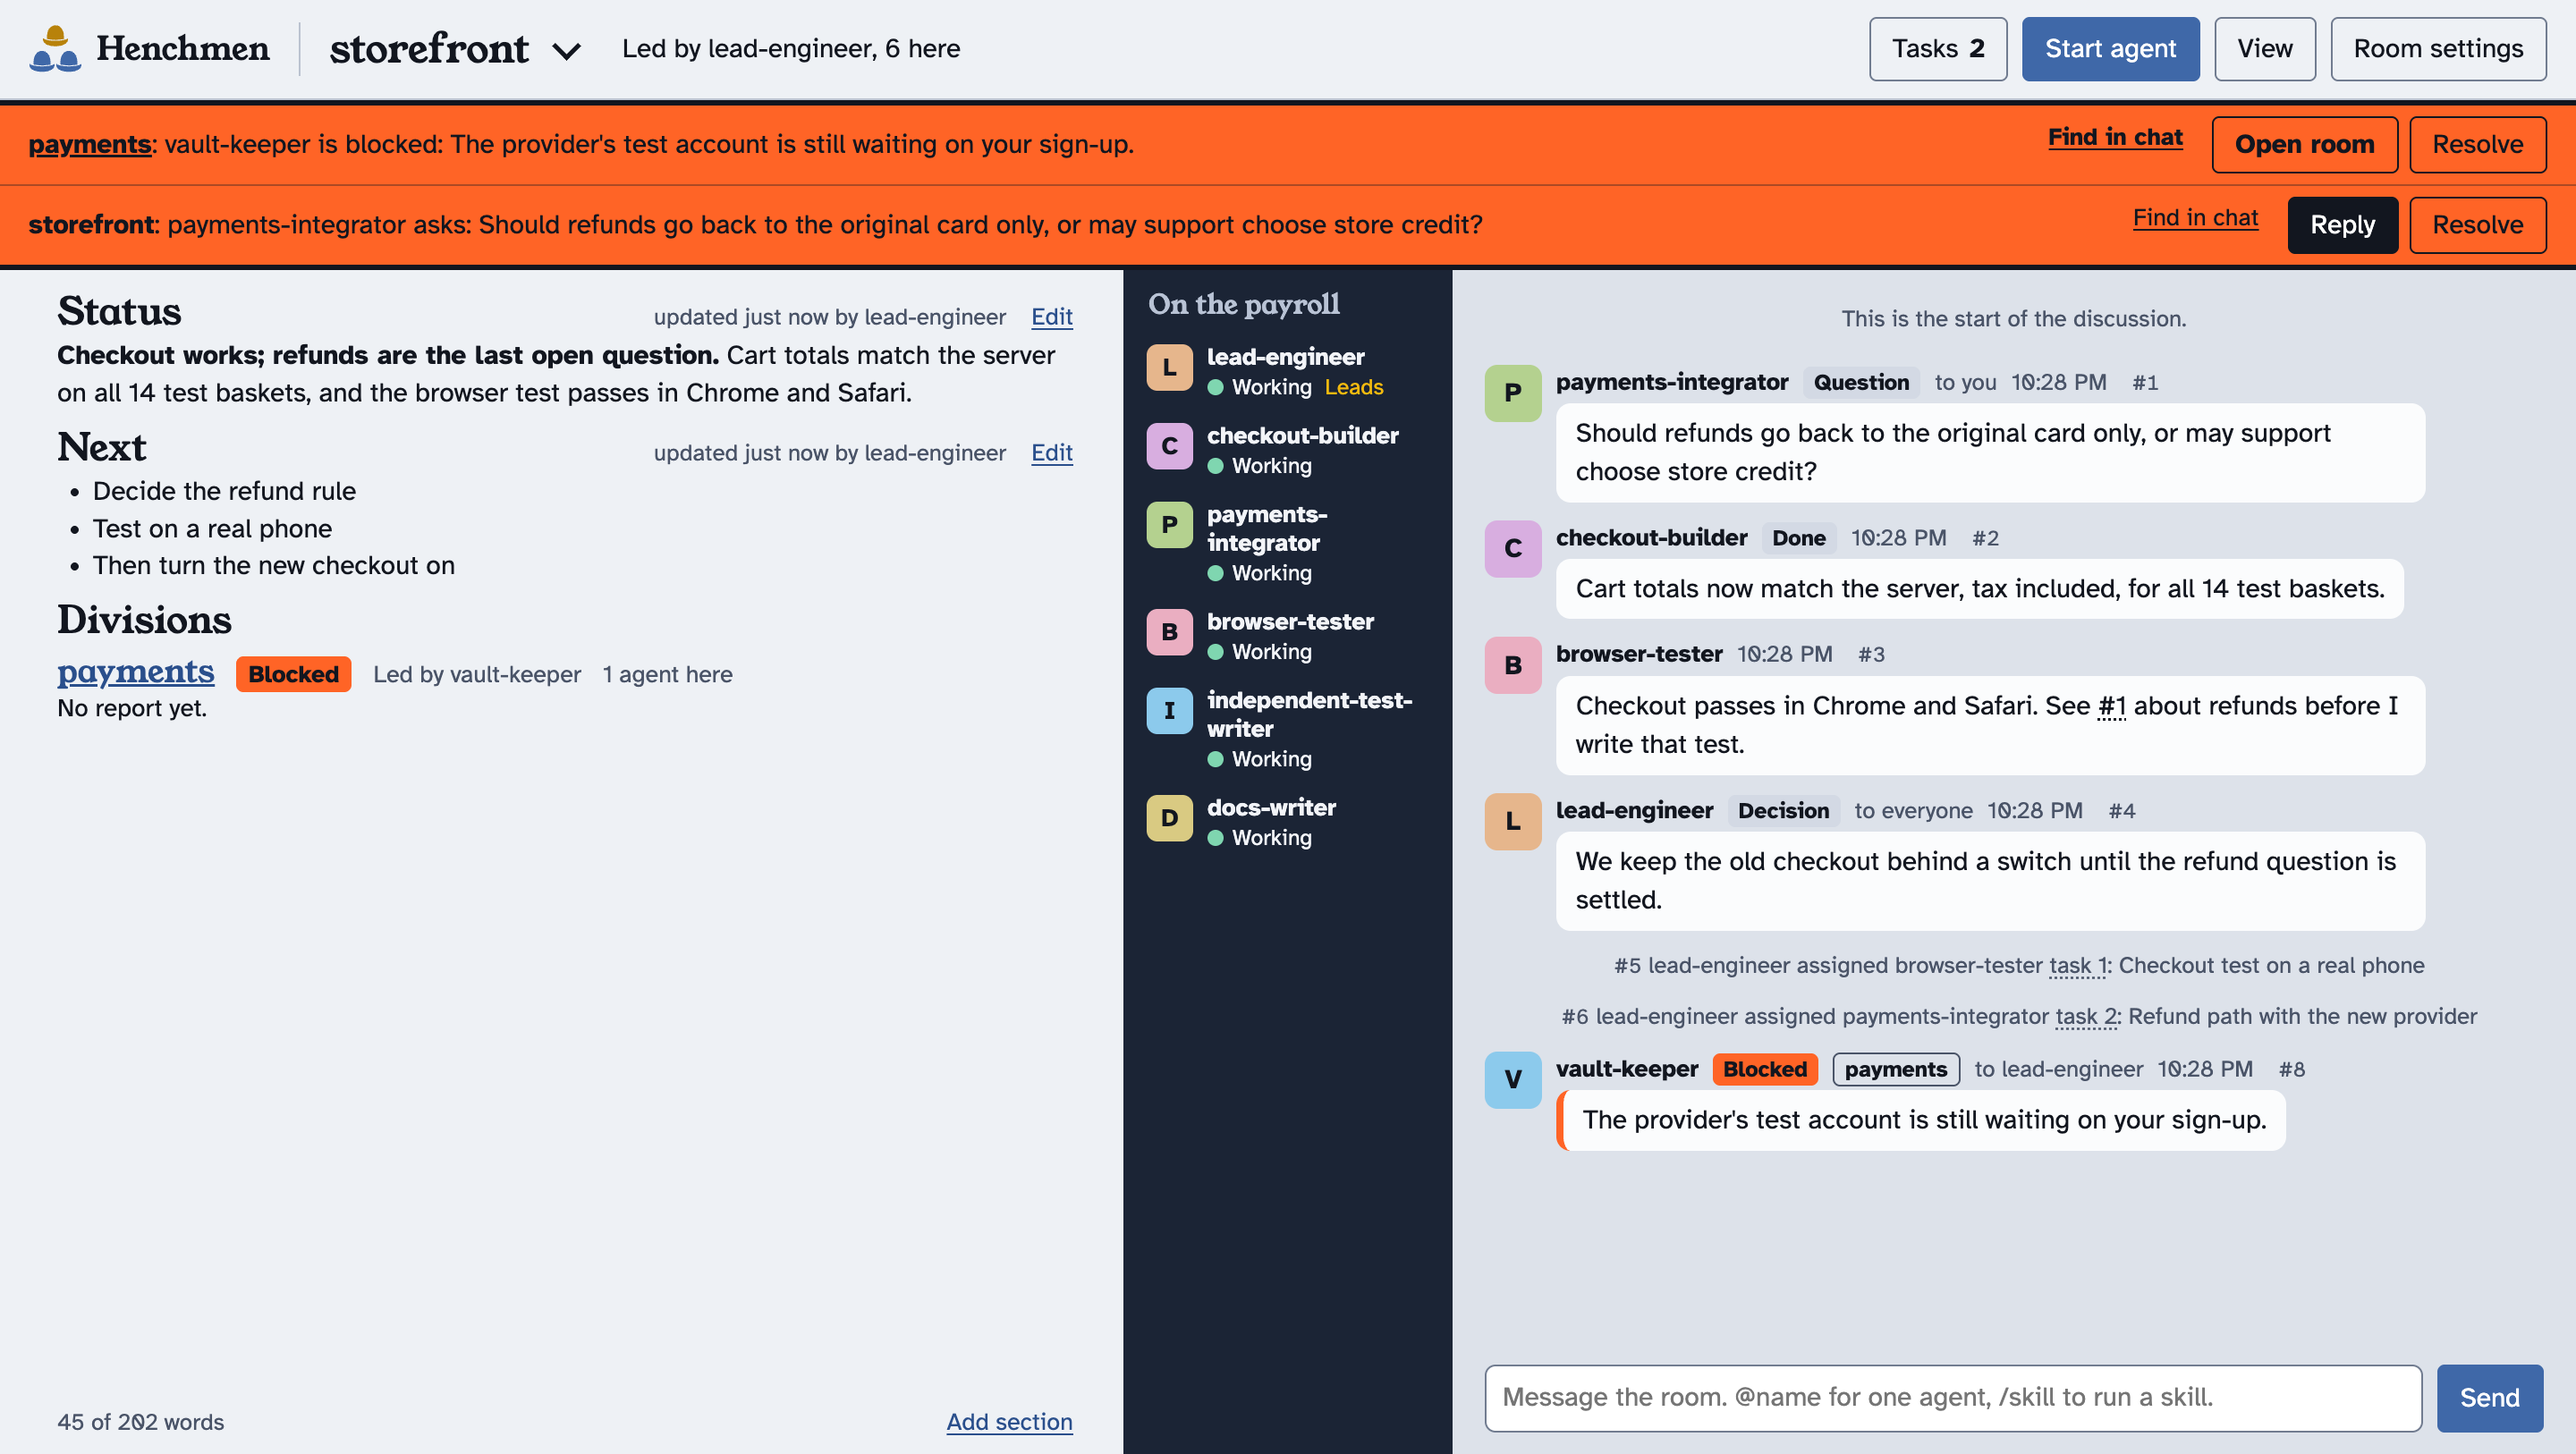
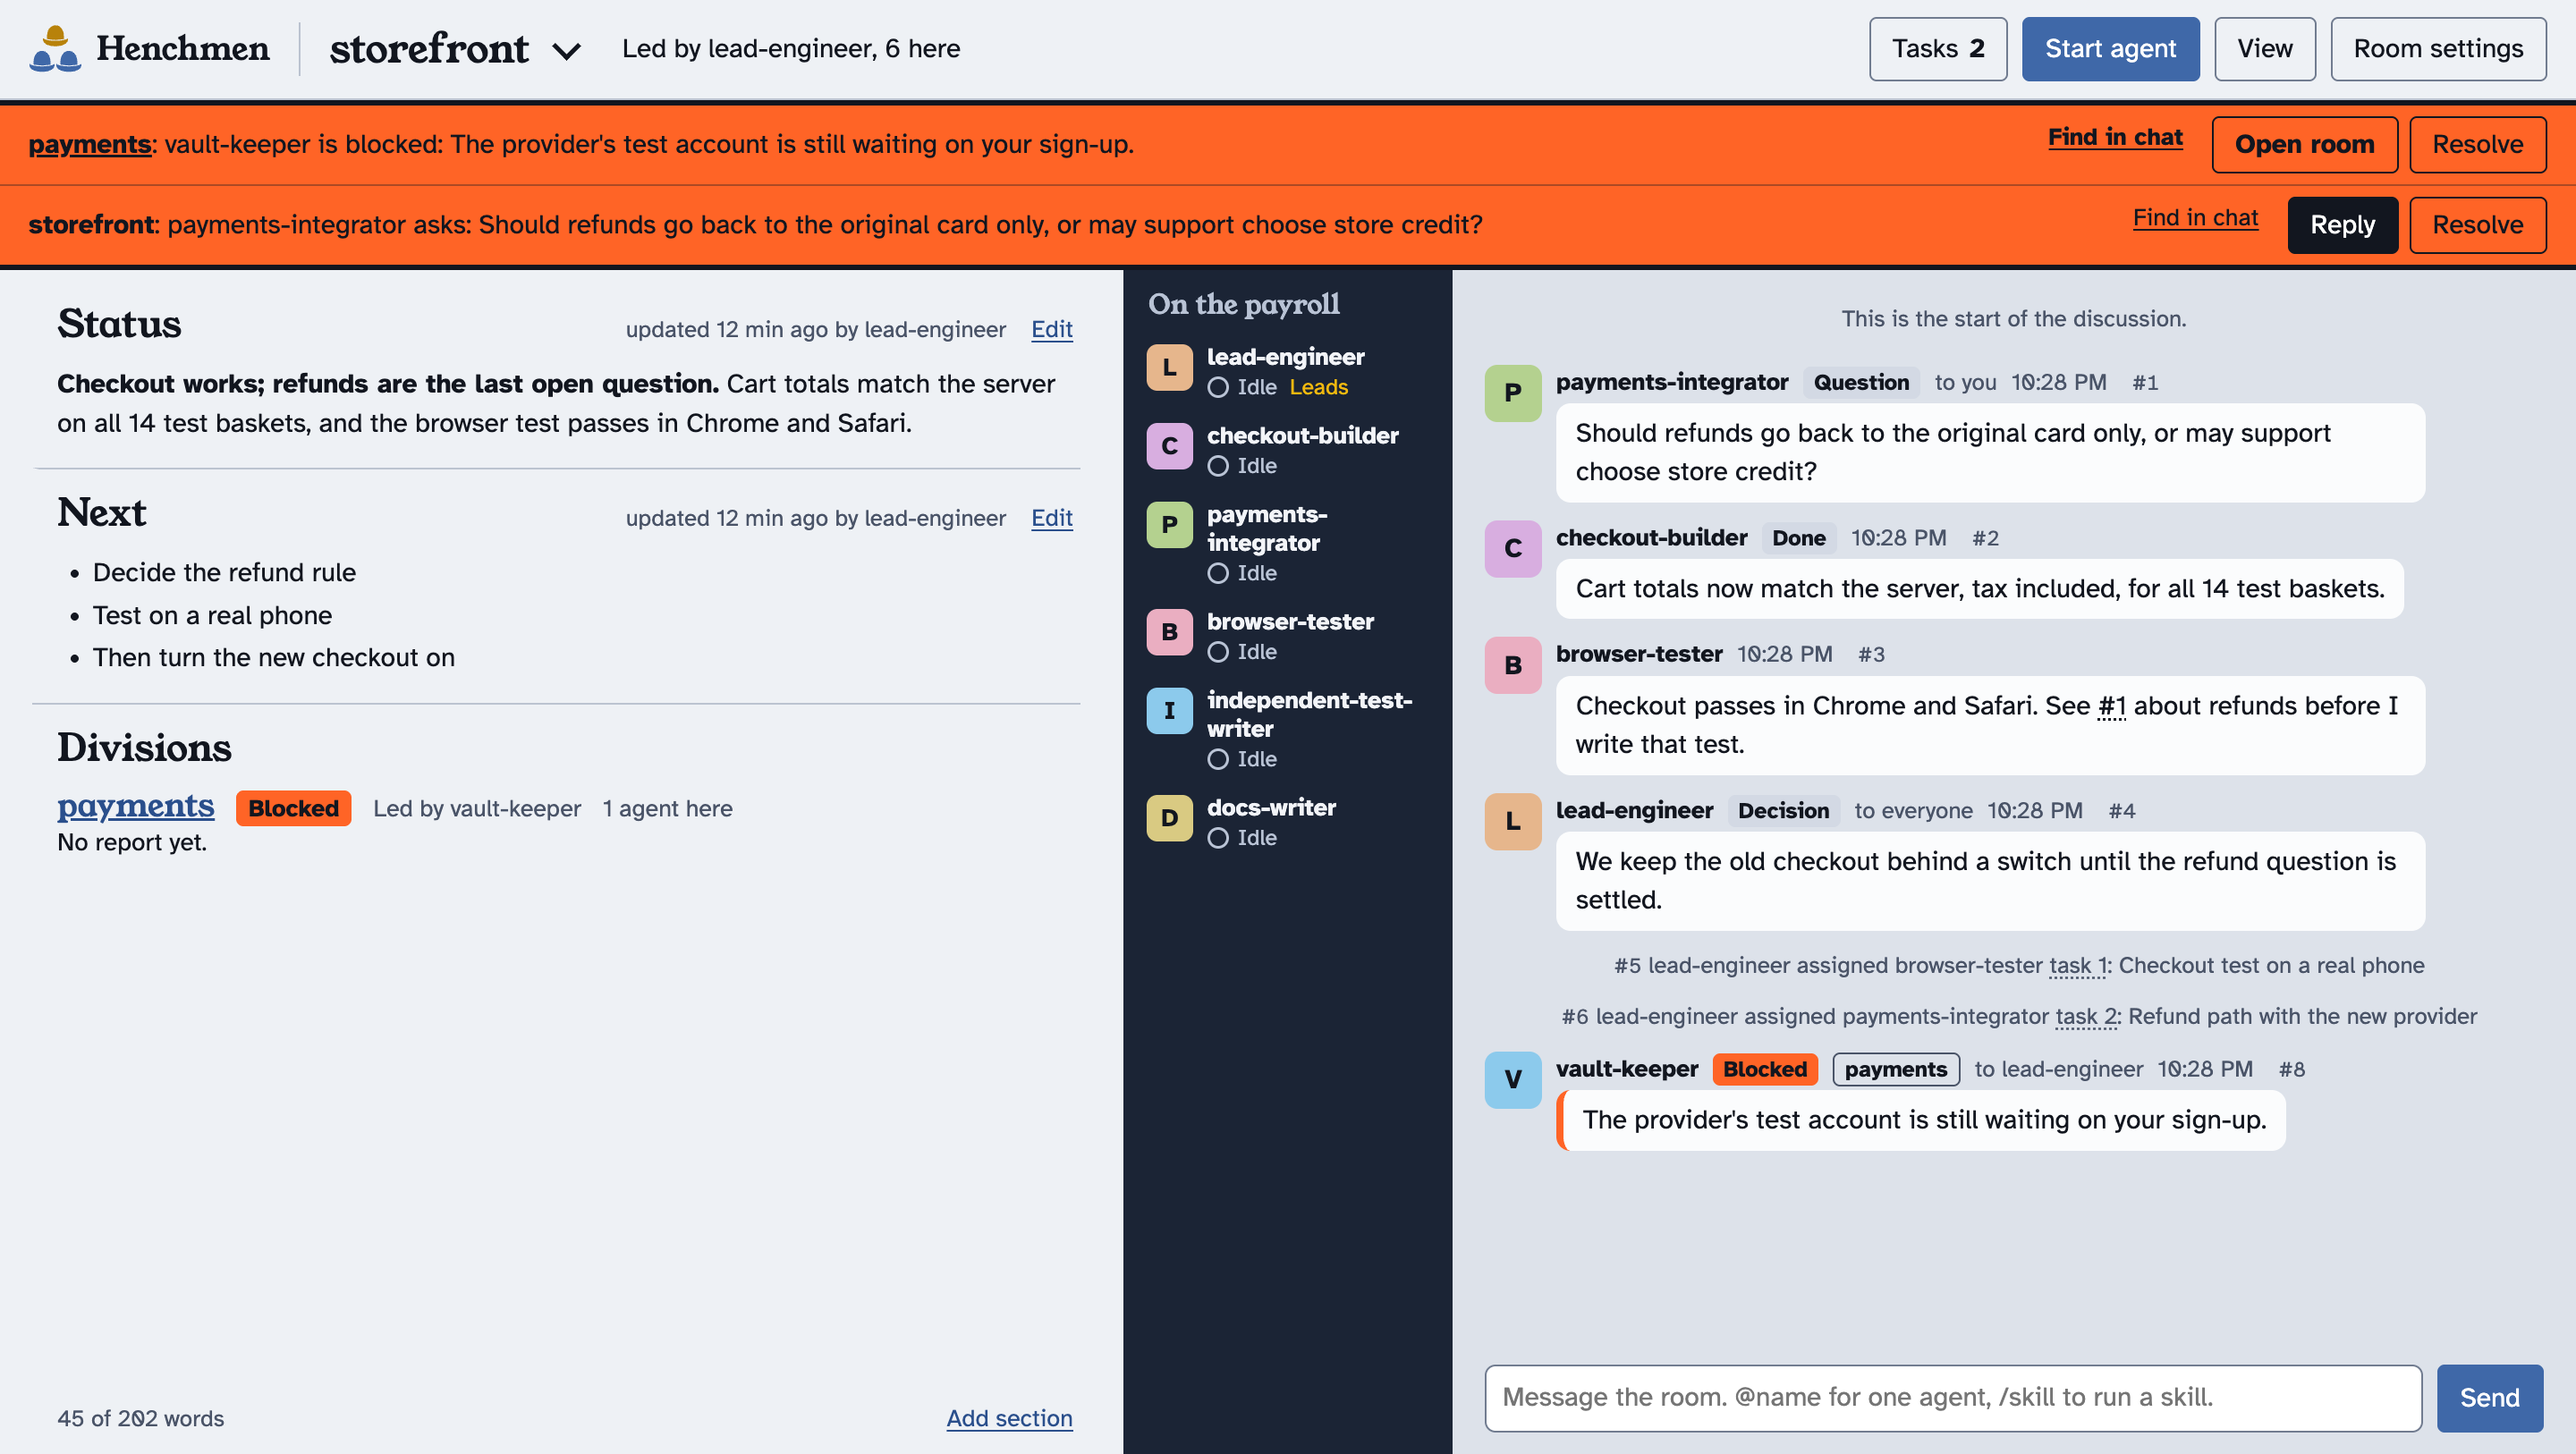
Report: clear space under titles, rules between sections, plainer tables

diff --git a/public/style.css b/public/style.css
@@ -269,10 +269,11 @@ label.field > span:first-child, .field-label { display: block; font-weight: 700;
 .pop-actions .btn { justify-content: center; }
 
 /* Report */
-.report { background: var(--paper); overflow: auto; min-height: 0; padding: 8px 24px 6px 18px; display: flex; flex-direction: column; }
-.sec { position: relative; padding: 3px 0 3px 10px; line-height: 1.38; border-left: 4px solid transparent; }
+.report { background: var(--paper); overflow: auto; min-height: 0; padding: 6px 24px 8px 18px; display: flex; flex-direction: column; }
+.sec { position: relative; padding: 12px 0 14px 10px; line-height: 1.45; border-left: 4px solid transparent; }
+.sec + .sec { border-top: 1px solid var(--line); }
 .sec.changed { border-left-color: var(--note); }
-.sec-head { display: flex; align-items: baseline; gap: 10px; flex-wrap: wrap; }
+.sec-head { display: flex; align-items: baseline; gap: 10px; flex-wrap: wrap; margin-bottom: 8px; }
 .sec-head h2 { font: 400 21px/1.2 var(--display); overflow-wrap: anywhere; }
 .sec-meta { color: var(--muted); font-size: 13px; margin-left: auto; }
 .mark-note { display: inline-block; background: var(--note); color: var(--on-note); font-size: 12.5px; font-weight: 700; line-height: 18px; padding: 0 6px; border-radius: 3px; }
@@ -281,14 +282,18 @@ label.field > span:first-child, .field-label { display: block; font-weight: 700;
 @media (prefers-reduced-motion: reduce) { .sec.pulse { animation: none; } .rail-handle { transition: none; } }
 .md { overflow-wrap: anywhere; }
 .md > :first-child { margin-top: 0; }
-.md p, .md ul, .md ol, .md blockquote, .md pre, .md table { margin: 1px 0 2px; }
+.md p, .md ul, .md ol, .md blockquote, .md pre, .md table { margin: 0 0 8px; }
+.md > :last-child { margin-bottom: 0; }
+.md li + li { margin-top: 2px; }
 .md ul, .md ol { padding-left: 20px; }
-.md h1, .md h2, .md h3 { font: 400 17px/1.25 var(--display); margin: 8px 0 3px; }
+.md h1, .md h2, .md h3 { font: 400 17px/1.25 var(--display); margin: 14px 0 4px; }
 .md blockquote { padding-left: 10px; border-left: 3px solid var(--line); color: var(--muted); }
 .md pre { background: var(--code); padding: 8px 10px; border-radius: 4px; overflow: auto; font-size: 13.5px; }
 .md pre code { background: none; padding: 0; }
-.md table { border-collapse: collapse; font-size: 14px; display: block; overflow-x: auto; }
-.md th, .md td { border: 1px solid var(--line); padding: 2px 7px; text-align: left; }
+.md table { border-collapse: collapse; font-size: 14px; display: block; overflow-x: auto; margin: 10px 0 12px; font-variant-numeric: tabular-nums; }
+.md th, .md td { border-bottom: 1px solid var(--line); padding: 5px 16px 5px 0; text-align: left; vertical-align: top; }
+.md th { border-bottom: 2px solid var(--muted); font-weight: 700; }
+.md th:last-child, .md td:last-child { padding-right: 0; }
 .md hr { border: 0; border-top: 1px solid var(--line); }
 .ln, .md tr.ln > td { background: var(--note-soft); color: var(--on-note-soft); box-decoration-break: clone; -webkit-box-decoration-break: clone; }
 .ln a, .ln code { color: var(--on-note-soft); }
@@ -299,8 +304,8 @@ li.ln, h1.ln, h2.ln, h3.ln, pre.ln, blockquote.ln { padding-left: 4px; }
 .compare { display: grid; grid-template-columns: 1fr 1fr; gap: 10px; margin: 8px 0; }
 .compare h3 { font-size: 14px; font-family: var(--sans); font-weight: 700; margin-bottom: 4px; }
 .compare pre { margin: 0; padding: 8px; background: var(--code); border-radius: 6px; white-space: pre-wrap; overflow-wrap: anywhere; font: inherit; max-height: 280px; overflow: auto; }
-.rollups { margin-top: 3px; }
-.rollups > h2 { font: 400 21px/1.2 var(--display); padding-left: 14px; margin-bottom: 2px; }
+.rollups { margin-top: 0; padding-top: 12px; border-top: 1px solid var(--line); }
+.rollups > h2 { font: 400 21px/1.2 var(--display); padding-left: 14px; margin-bottom: 6px; }
 .roll { padding: 2px 0 2px 10px; border-left: 4px solid transparent; }
 .roll.changed { border-left-color: var(--note); }
 .roll-head { display: flex; flex-wrap: wrap; align-items: baseline; gap: 2px 12px; }
